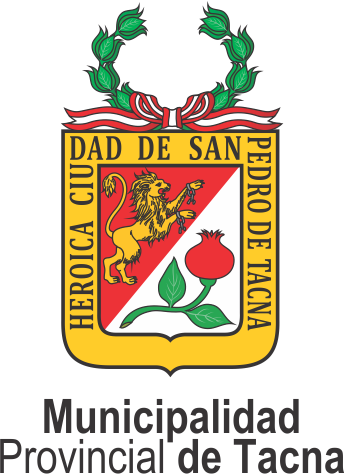
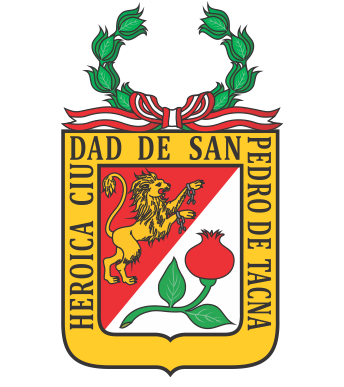
improve styles

diff --git a/backyard/app.html b/backyard/app.html
@@ -41,7 +41,7 @@
                         <div class="col-md-7">
 
                             <!-- /.logo -->
-                            <div class="logo wow fadeInDown"> <a href=""><img src="images/mpt.png" alt="logo"></a></div>
+                            <div class="logo wow fadeInDown" style="margin-bottom: 90px;"> <a href=""><img src="images/mpt.png" alt="logo"><div style="text-align: center;position: absolute;margin-left: 16px;margin-top: -5px;color: white;">Municipalidad<br><span style='text-aling:center;'>Provincial de Tacna</span></div></a></div>
                             <!-- /.main title -->
                             <h1 class="wow fadeInLeft">
                                 Desafío APP Tacna 2018
@@ -54,18 +54,18 @@
 
                             <!-- /.header button -->
                             <div class="head-btn wow fadeInLeft">
-                                <a href="#feature" class="btn-primary">Features</a>
-                                <a href="#subscribe" class="btn-default">Subscribe</a>
+                                <a href="#feature" class="btn-primary">Bases para el concurso</a>
+                                <!-- <a href="#subscribe" class="btn-default">Subscribe</a> -->
                             </div>
 
                             <!-- /.phone option -->
-                            <div class="more wow fadeInLeft">
+<!--                             <div class="more wow fadeInLeft">
                                 <p>Available for:
                                     <a href="#download" class="btn option"><i class="fa fa-apple"></i>iOS</a>
                                     <a href="#download" class="btn option"><i class="fa fa-android"></i>Android</a>
                                 </p>
                             </div>			  
-
+ -->
                         </div> 
 
                         <!-- /.phone image -->
@@ -95,7 +95,7 @@
                         <ul class="nav navbar-nav">
                             <li><a href="#intro">About</a></li>
                             <li><a href="#feature">Features</a></li>
-                            <li><a href="#subscribe">Subscribe</a></li>
+                            <!-- <li><a href="#subscribe">Subscribe</a></li> -->
                             <li><a href="#screenshot">Screenshots</a></li>
                             <li><a href="#testi">Reviews</a></li>
                             <li><a href="#download">Download</a></li>
@@ -142,8 +142,8 @@
                     <div class="col-md-4 text-center">
 
                         <!-- /.feature image -->
-                        <div class="feature-img">
-                            <img src="images/feature-image.jpg" alt="image" class="img-responsive wow fadeInLeft">
+                        <div class="feature-img" >
+                            <img src="images/apps.jpg" style="height: 273px;margin-top: 81px;" alt="image" class="img-responsive wow fadeInLeft">
                         </div>
                     </div>
 
@@ -207,7 +207,7 @@
 
                     <!-- /.feature image -->
                     <div class="col-md-6 feature-2-pic wow fadeInRight">
-                        <img src="images/feature2-image.jpg" alt="image" class="img-responsive">
+                        <img src="images/desarrollo-apps-mallorca.jpg" alt="image" class="img-responsive">
                     </div>				  
                 </div>			  
 
@@ -216,19 +216,19 @@
 
 
         <!-- /.subscribe section -->
-        <div id="subscribe">
+<!--         <div id="subscribe">
             <div class="subscribe fullscreen parallax" style="background-image:url('images/bg.jpg');" data-img-width="1920" data-img-height="1281" data-diff="100">
                 <div class="overlay">
                     <div class="container">
 
-                        <!-- /.mail icon -->
+                        
                         <div class="col-md-4 col-md-offset-4 text-center">
                             <i class="pe-7s-mail pe-va letter wow fadeInUp"></i>
                         </div>
                         <div class="col-md-8 col-md-offset-2 text-center">
                             <p>We'll research the market, identify the right target audience, analyze competitors and avoid users churn to increase retention. Enter your email address and we will do the rest.</p>
 
-                            <!-- /.subscribe form -->
+                            
                             <div class="subscribe-form wow fadeInUp">
                                 <form class="news-letter mailchimp" action="http://moxdesign.us10.list-manage.com/subscribe/post" role="form" method="POST">
                                     <input type="hidden" name="u" value="503bdae81fde8612ff4944435">
@@ -242,7 +242,7 @@
                     </div>	
                 </div>
             </div>
-        </div>
+        </div> -->
 
         <!-- /.screenshot section -->
         <div id="screenshot">

diff --git a/backyard/css/css-app-yellow.css b/backyard/css/css-app-yellow.css
@@ -162,7 +162,7 @@ a:hover {
 	/*	width: 150px;  --modificado
 		height: 37px;*/
 		width: 172px;
-		height: 205px;
+		height: 182px;
 		margin-top: -56px;
 }
 .landing h1{
@@ -207,7 +207,7 @@ a:hover {
 	color: #d1b702;
 }
 .header-phone {
-	margin: 50px 0 100px;
+	margin: 33px 0 100px;
 }
 #intro {
 	padding: 100px 0 70px;

diff --git a/backyard/css/css-index-yellow.css b/backyard/css/css-index-yellow.css
@@ -160,11 +160,8 @@ a:hover {
 	margin: 100px 0 40px 0;
 }
 .logo img{
-/*	width: 150px;  --modificado
-	height: 37px;*/
-	width: 172px;
-	height: 205px;
-	margin-top: -56px;
+	width: 150px; 
+	height: 37px
 }
 .landing h1{
 	font-size: 56px;
